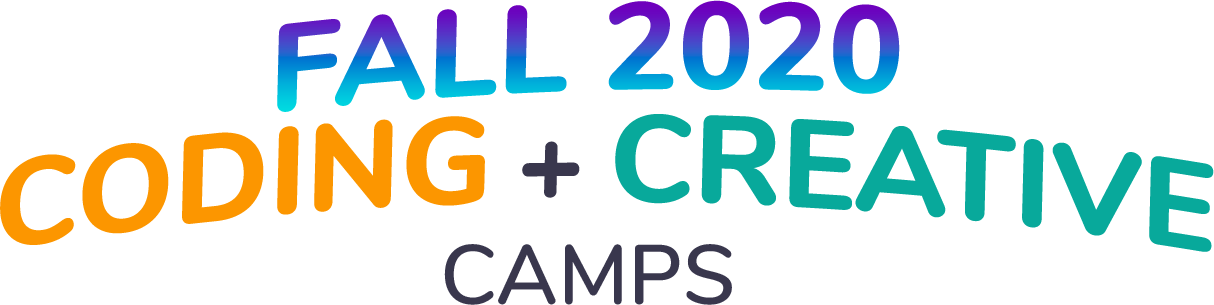
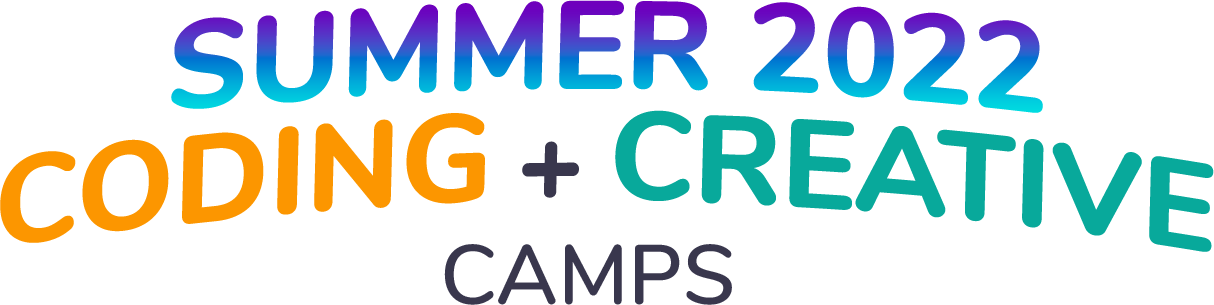
summer

diff --git a/index.html b/index.html
@@ -14,13 +14,13 @@
 
     <meta charset="utf-8">
     <meta name="viewport" content="width=device-width, initial-scale=1.0">
-    <title>Marty World - 2021 Coding + Creative Camps </title>
+    <title>Marty World - 2022 Coding + Creative Camps </title>
     <meta name="keywords" content="CONTENT & SOCIAL,STRATEGY,WEB DESIGN,PRINT DESIGN">
     <meta name="author" content="MISLA MARTY ">
     <link rel="canonical" href="https://marty.world/" />
    <meta property="og:locale" content="en_US">
     <meta property="og:type" content="website">
-    <meta property="og:title" content="Marty World - 2021 Coding + Creative Camps">
+    <meta property="og:title" content="Marty World - 2022 Coding + Creative Camps">
     <meta property="og:description" content="For nearly four decades, VSEDC has facilitated community development in the South Los Angeles area by providing programs that revitalize the physical, economic, and social life of the community.">
     <meta property="og:url" content="https://marty.world/">
     <meta property="og:site_name" content="Marty World">
@@ -31,7 +31,7 @@
     <meta property="og:image:alt" content="Marty World">
     <meta property="og:image:type" content="image/png">
     <meta name="twitter:card" content="summary_large_image">
-    <meta name="twitter:title" content="Marty World - 2021 Coding + Creative Camps">
+    <meta name="twitter:title" content="Marty World - 2022 Coding + Creative Camps">
     <meta name="twitter:description" content="For nearly four decades, VSEDC has facilitated community development in the South Los Angeles area by providing programs that revitalize the physical, economic, and social life of the community.">
     <meta name="twitter:image" content="http://marty.world/assets/images/preview-marty-logo.png">
     <link rel="stylesheet" type="text/css" href="assets/css/bootstrap.min.css" />
@@ -82,7 +82,7 @@
                     </li>
                 </ul>
             </div>
-            <a href="https://vsedc.org/" class="navbar-brand" target="_blank"><img class="logoTopMenu" src="assets/images/top-menu-logo_03.png" alt="MARTY WORLD"></a>
+            <a href="https://marty.world/" class="navbar-brand" target="_blank"><img class="logoTopMenu" src="assets/images/preview-marty-logo.png" alt="MARTY WORLD"></a>
 
         </nav>
     </header>
@@ -93,7 +93,7 @@
                     <div class="row">
                         <div class="col-lg-8 offset-lg-1 offset-md-0 col-md-6 offset-md-3">
                             <div class="bigLogo">
-                                <img src="assets/images/winter-title.png" style="max-height: 210px;" class="img-fluid" alt="winter coding+creative camps">
+                                <img src="assets/images/title-home.png" style="max-height: 210px;" class="img-fluid" alt="winter coding+creative camps">
                             </div>
                         </div>
                     </div>
@@ -384,7 +384,7 @@
                 <!-- title -->
                 <div class="mt-4">
                     <div class="bigLogo">
-                        <img src="assets/images/spring-heading.png" class="img-fluid" alt="Winter 2021">
+                        <img src="assets/images/summer-marty.png" class="img-fluid" alt="Winter 2022">
                     </div>
                     <!-- dotted circle -->
                     <div class="dotted-circle">
@@ -597,7 +597,7 @@
                 <!-- title -->
                 <div class="mt-4 mb-5">
                     <div class="bigLogo">
-                        <img src="assets/images/contact.png" class="img-fluid" alt="Winter 2021">
+                        <img src="assets/images/contact.png" class="img-fluid" alt="Winter 2022">
                     </div>
                     <!-- dotted circle -->
                     <div class="dotted-circle">
@@ -673,7 +673,7 @@
         </div>
         <div class="row">
             <div class="col-sm-5">
-                <p class="white-color mt40 text-center font-weight-semi-bold">&copy;Copyrights 2021 Misla & Marty - All rights reserved. Made by <a href="https://www.misla.org/"> MISLA</a> & <a href="#">MARTY</a></p>
+                <p class="white-color mt40 text-center font-weight-semi-bold">&copy;Copyrights 2022 Misla & Marty - All rights reserved. Made by <a href="https://www.misla.org/"> MISLA</a> & <a href="#">MARTY</a></p>
             </div>
             <div class="col-sm-7">
                 <div class="bottomMenu">

diff --git a/betts-goes-tech-when-it-comes-to-the-black-community.html b/betts-goes-tech-when-it-comes-to-the-black-community.html
@@ -70,7 +70,7 @@
                     </li>
                 </ul>
             </div>
-            <a href="https://vsedc.org/" class="navbar-brand" target="_blank"><img class="logoTopMenu" src="assets/images/top-menu-logo_03.png" alt="VSEDC"></a>
+            <a href="https://marty.world/" class="navbar-brand" target="_blank"><img class="logoTopMenu" src="assets/images/preview-marty-logo.png" alt="VSEDC"></a>
         </nav>
     </header>
     <div class="container-fluid">

diff --git a/internal-forms.html b/internal-forms.html
@@ -68,7 +68,7 @@
                     </li>
                 </ul>
             </div>
-            <a href="https://vsedc.org/" class="navbar-brand" target="_blank"><img class="logoTopMenu" src="assets/images/top-menu-logo_03.png" alt="VESDC"></a>
+            <a href="https://marty.world/" class="navbar-brand" target="_blank"><img class="logoTopMenu" src="assets/images/preview-marty-logo.png" alt="VESDC"></a>
         </nav>
     </header>
     <div class="container-fluid">

diff --git a/microsoft-donates-$300,000-to-south-centrals-MISLA-made-in-south-LA.html b/microsoft-donates-$300,000-to-south-centrals-MISLA-made-in-south-LA.html
@@ -70,7 +70,7 @@
                     </li>
                 </ul>
             </div>
-            <a href="https://vsedc.org/" class="navbar-brand" target="_blank"><img class="logoTopMenu" src="assets/images/top-menu-logo_03.png" alt="VSEDC"></a>
+            <a href="https://marty.world/" class="navbar-brand" target="_blank"><img class="logoTopMenu" src="assets/images/preview-marty-logo.png" alt="VSEDC"></a>
         </nav>
     </header>
     <div class="container-fluid">

diff --git a/press.html b/press.html
@@ -66,7 +66,7 @@
                     </li>
                 </ul>
             </div>
-            <a href="https://vsedc.org/" class="navbar-brand" target="_blank"><img class="logoTopMenu" src="assets/images/top-menu-logo_03.png" alt="VSEDC"></a>
+            <a href="https://marty.world/" class="navbar-brand" target="_blank"><img class="logoTopMenu" src="assets/images/preview-marty-logo.png" alt="VSEDC"></a>
         </nav>
     </header>
     <div class="container-fluid">

diff --git a/pricing.html b/pricing.html
@@ -69,7 +69,7 @@
                     </li>
                 </ul>
             </div>
-            <a href="https://vsedc.org/" class="navbar-brand" target="_blank"><img class="logoTopMenu" src="assets/images/top-menu-logo_03.png" alt="VSEDC"></a>
+            <a href="https://marty.world/" class="navbar-brand" target="_blank"><img class="logoTopMenu" src="assets/images/preview-marty-logo.png" alt="VSEDC"></a>
         </nav>
     </header>
     <div class="container-fluid">

diff --git a/services.html b/services.html
@@ -68,7 +68,7 @@
                     </li>
                 </ul>
             </div>
-            <a href="https://vsedc.org/" class="navbar-brand" target="_blank"><img class="logoTopMenu" src="assets/images/top-menu-logo_03.png" alt="VSEDC"></a>
+            <a href="https://marty.world/" class="navbar-brand" target="_blank"><img class="logoTopMenu" src="assets/images/preview-marty-logo.png" alt="VSEDC"></a>
         </nav>
     </header>
     <div class="container-fluid">

diff --git a/thankyou.html b/thankyou.html
@@ -71,7 +71,7 @@
                     </li>
                 </ul>
             </div>
-            <a href="https://vsedc.org/" class="navbar-brand" target="_blank"><img class="logoTopMenu" src="assets/images/top-menu-logo_03.png" alt="VSEDC"></a>
+            <a href="https://marty.world/" class="navbar-brand" target="_blank"><img class="logoTopMenu" src="assets/images/preview-marty-logo.png" alt="VSEDC"></a>
         </nav>
     </header>
     <div class="container-fluid">

diff --git a/top-los-angeles-marketing-consultancy.html b/top-los-angeles-marketing-consultancy.html
@@ -74,7 +74,7 @@
                     </li>
                 </ul>
             </div>
-            <a href="https://vsedc.org/" class="navbar-brand" target="_blank"><img class="logoTopMenu" src="assets/images/top-menu-logo_03.png" alt="VSEDC"></a>
+            <a href="https://marty.world/" class="navbar-brand" target="_blank"><img class="logoTopMenu" src="assets/images/preview-marty-logo.png" alt="VSEDC"></a>
         </nav>
     </header>
     <div class="container-fluid">

diff --git a/assets/css/style.css b/assets/css/style.css
@@ -51,7 +51,7 @@ a:hover {
 }
 
 .home-page {
-    background-image: url(../images/home-winter.jpg);
+    background-image: url(../images/bg-main.jpg);
     padding-bottom: 40px;
 }
 
